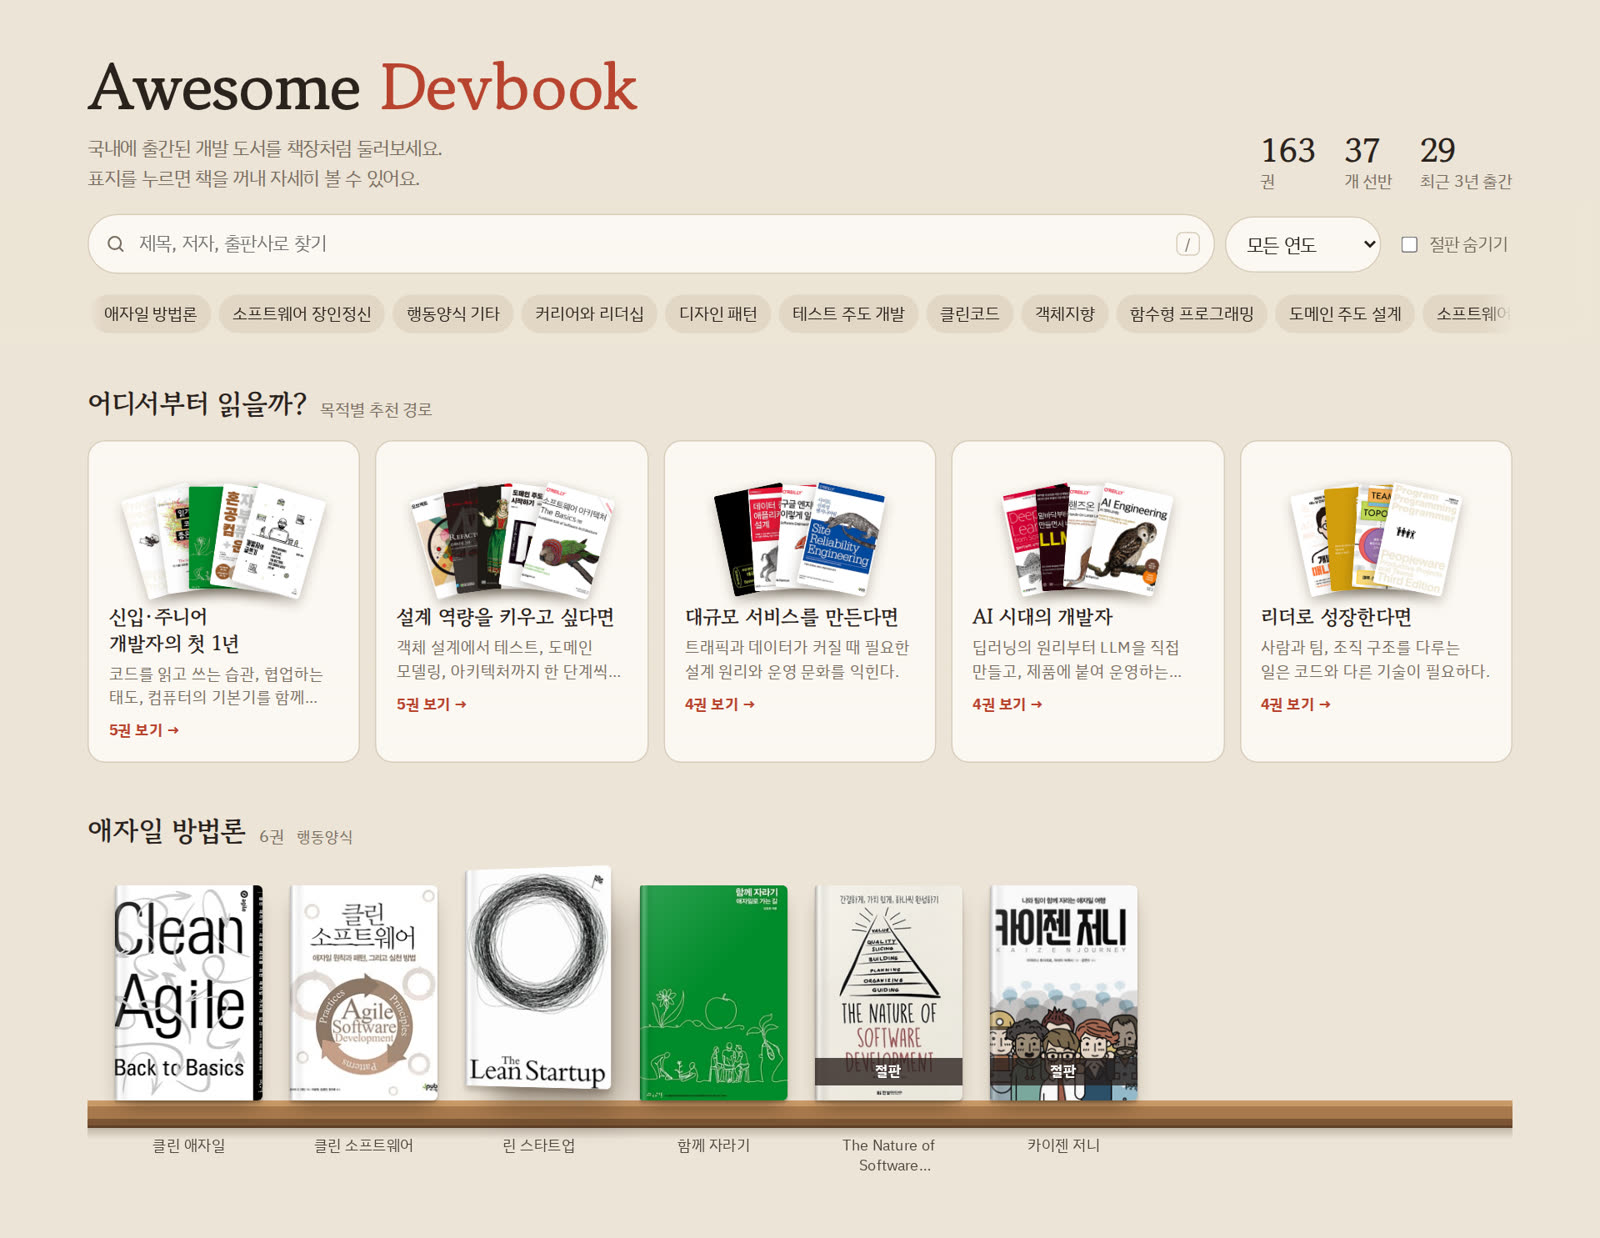
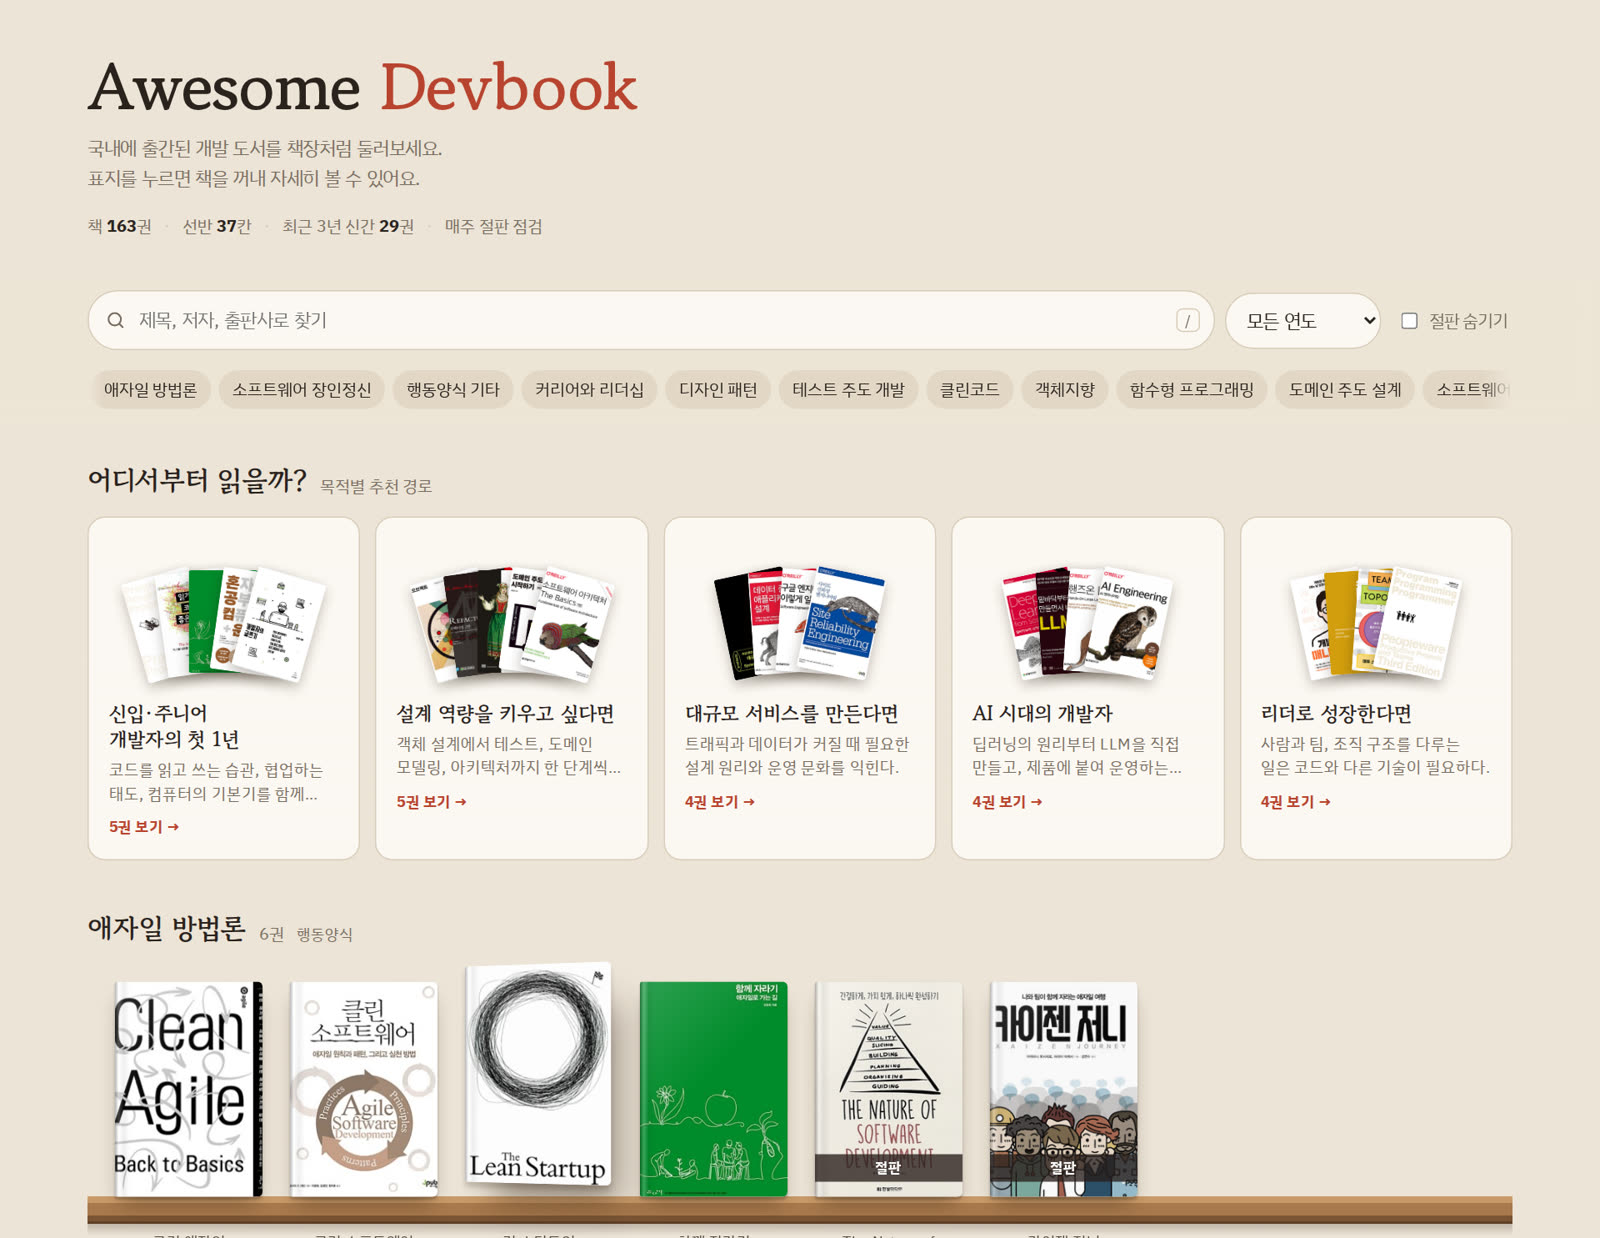
💅 추천 카드 표지·제목 여백 확대, 머리말 숫자를 문장형 한 줄로

diff --git a/docs/index.html b/docs/index.html
@@ -40,13 +40,15 @@ button{font:inherit;color:inherit}
 .sr{position:absolute;width:1px;height:1px;overflow:hidden;clip:rect(0 0 0 0);white-space:nowrap}
 
 /* 머리 */
-header.wrap{padding-block:40px 6px;display:grid;grid-template-columns:minmax(0,1fr) auto;gap:20px;align-items:end}
+header.wrap{padding-block:40px 18px}
 h1{font-family:var(--display);font-weight:700;font-size:clamp(32px,5.4vw,52px);line-height:1.1;margin:0;letter-spacing:-.015em}
 h1 em{font-style:normal;color:var(--accent)}
 .lead{margin:10px 0 0;color:var(--mute);max-width:46ch;text-wrap:pretty}
-.stats{display:flex;gap:22px;font-variant-numeric:tabular-nums;color:var(--mute);font-size:13px}
-.stats b{display:block;font-family:var(--display);font-size:26px;color:var(--ink);line-height:1.1}
-@media (max-width:760px){header.wrap{grid-template-columns:1fr;padding-top:28px}.stats{gap:18px}}
+.stats{display:flex;flex-wrap:wrap;align-items:center;gap:6px 0;margin-top:14px;font-size:13.5px;color:var(--mute);font-variant-numeric:tabular-nums}
+.stats span+span::before{content:"·";margin:0 10px;color:var(--line)}
+.stats b{color:var(--ink);font-weight:700}
+@media (max-width:760px){header.wrap{padding-top:28px}}
+@media (max-width:640px){.stats span:nth-child(4){display:none}}
 
 /* 도구 막대 */
 .bar{position:sticky;top:0;z-index:20;padding-block:10px 8px;background:color-mix(in srgb,var(--wall) 90%,transparent);
@@ -88,11 +90,11 @@ select{font:inherit;padding:10px 12px;border-radius:999px;border:1px solid var(-
   scrollbar-width:none;padding:12px 2px 6px;margin-inline:-2px}
 .tracks::-webkit-scrollbar{display:none}
 @media (max-width:640px){.tracks{grid-auto-columns:62%;margin-inline:-20px;padding-inline:20px;scroll-padding-inline:20px}}
-.track{all:unset;box-sizing:border-box;cursor:pointer;scroll-snap-align:start;display:grid;grid-template-rows:auto 1fr;gap:12px;
+.track{all:unset;box-sizing:border-box;cursor:pointer;scroll-snap-align:start;display:grid;grid-template-rows:auto 1fr;gap:22px;
   padding:14px 16px 16px;border-radius:14px;background:var(--paper);border:1px solid var(--line);transition:border-color .2s,translate .2s}
 .track:hover,.track:focus-visible{border-color:var(--accent);translate:0 -2px}
 .track:focus-visible{outline:2px solid var(--accent);outline-offset:2px}
-.fan{position:relative;height:104px;margin-inline:-4px}
+.fan{position:relative;height:104px;margin:6px -4px 0}
 .fan img,.fan .ph{position:absolute;bottom:0;left:50%;width:56px;height:82px;object-fit:cover;border-radius:2px 3px 3px 2px;
   box-shadow:0 4px 10px rgba(40,25,10,.3);transform-origin:50% 130%;transition:transform .35s cubic-bezier(.2,.8,.2,1)}
 .fan .ph{font-size:8px;padding:5px}
@@ -235,8 +237,8 @@ footer p + p{margin-top:6px}
   <div>
     <h1>Awesome <em>Devbook</em></h1>
     <p class="lead">국내에 출간된 개발 도서를 책장처럼 둘러보세요.<br>표지를 누르면 책을 꺼내 자세히 볼 수 있어요.</p>
+    <p class="stats" id="stats"></p>
   </div>
-  <div class="stats" id="stats"></div>
 </header>
 
 <div class="bar" id="bar"><div class="wrap">
@@ -298,8 +300,8 @@ footer p + p{margin-top:6px}
   const state = { q: "", year: 0, hideOop: false, track: null };
   const slug = (name) => "s-" + encodeURIComponent(name).replace(/%/g, "");
 
-  $("#stats").innerHTML = `<span><b>${books.length}</b>권</span><span><b>${cats.length}</b>개 선반</span>` +
-    `<span><b>${books.filter((b) => +b.published.slice(0, 4) >= thisYear - 2).length}</b>최근 3년 출간</span>`;
+  $("#stats").innerHTML = `<span>책 <b>${books.length}</b>권</span><span>선반 <b>${cats.length}</b>칸</span>` +
+    `<span>최근 3년 신간 <b>${books.filter((b) => +b.published.slice(0, 4) >= thisYear - 2).length}</b>권</span><span>매주 절판 점검</span>`;
 
   // 표지가 없을 때: 제목으로 만든 천 장정 표지
   const hue = (s) => [...s].reduce((h, ch) => (h * 31 + ch.charCodeAt(0)) % 360, 7);
